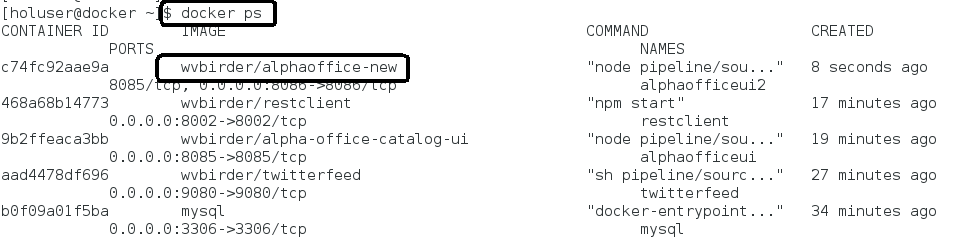
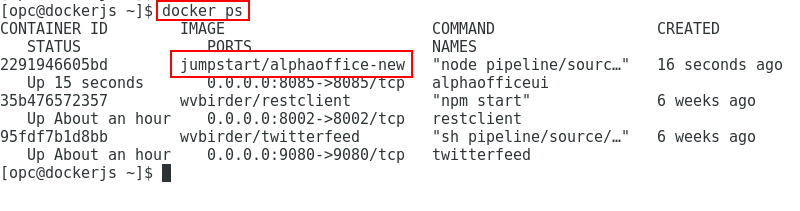
Updates

diff --git a/DockerJS.md b/DockerJS.md
@@ -1,5 +1,5 @@
 
-# Docker Workshop
+# Introduction to Docker on the Oracle Cloud
 
 ![](images/000JumpStart/TitleJS.png) 
 
@@ -222,7 +222,7 @@ Copy a background image file into the running AlphaOfficeUI container. This file
 docker cp /home/opc/AlphaOfficeSetup/dark_blue.jpg alphaofficeui:/pipeline/source/public/Images
 ```
 
-  Example: docker cp /home/opc/AlphaOfficeSetup/dark_blue.jpg alphaofficeui:/pipeline/source/public/Images
+  Example: `docker cp /home/opc/AlphaOfficeSetup/dark_blue.jpg alphaofficeui:/pipeline/source/public/Images`
 
 ### **STEP 2**: Install the VIM editor in the UI container
 
@@ -299,15 +299,15 @@ Commit and Test the changes
 
 ### **STEP 1**: Commit a NEW Docker image
 
-In this step you will save a copy of your modifed docker container and give it a new name. You're back out in the HOST now. Substitute your docker hub account name and give the new image a name where asked for in the following commands:
+In this step you will save a copy of your modifed docker container and give it a new name. You're back out in the HOST now. You can assign whatever image-name you want.
 
 - **Type** in following:
 
 ```
-docker commit alphaofficeui (your-dockerhub-account)/(image-name)
+docker commit alphaofficeui jumpstart/(image-name)
 ```
   
-- Example: `docker commit alphaofficeui wvbirder/alphaoffice-new`
+- Example: `docker commit alphaofficeui jumpstart/alphaoffice-new`
 
 - **Type** the following:
 
@@ -330,13 +330,19 @@ docker stop alphaofficeui
 docker rm alphaofficeui
 ```
 
-- Start a new container using your new Docker image. **Cut and Paste OR Type**: (Substituting your DockerHub account name and the image name you created in Step 1)
+- Start a new container using your new Docker image. **Cut and Paste OR Type**:
+
+- Let's take a look at what the docker **run** command options do:
+    - "-d" flag runs the container in the background
+    - "--restart unless-stopped" If the container goes down unexpectedly then when docker comes back up it will be restated... UNLESS it is stopped manually
+    - "--name" The name of the container will be "alphaofficeui"
+    - "-p" Port 8085 is mapped from the container to the same port on the HOST
 
 ```
-docker run -d --name=alphaofficeui -p=8085:8085 (your-dockerhub-account)/(image-name)
+docker run -d --restart unless-stopped --name=alphaofficeui -p=8085:8085 jumpstart/(image-name)
 ```
 
-- Example: `docker run -d --name=alphaofficeui -p=8085:8085  wvbirder/alphaoffice-new`
+- Example: `docker run -d --restart unless-stopped --name=alphaofficeui -p=8085:8085  jumpstart/alphaoffice-new`
 
 - Verify the new container is running by **typing**:
 
@@ -346,10 +352,16 @@ docker ps
 
 ![](images/000JumpStart/Picture200-32.png)
 
-- Open up a new browser tab and **enter**:
+- If your browser is still minimized then maximize it and refreash the AlphaOffice tab. If it's closed, then restart Firefox frm the Applications tab and go to:
 
 ```
-http://<Public-IP>:8085
+http://localhost:8085
 ```
 
 ![](images/000Jumpstart/Picture200-33.png)
+
+# Where do I go from here?
+
+If you would like to experience a more in-depth look at how this Docker infrastructure was created in the Oracle Cloud and how the AlphaOffice application can be deployed using an Oracle database OR MYSQL as the RESTclient datasource please go to <link-here>
+
+**This completes the Jump Start**

diff --git a/Linux200.md b/Linux200.md
@@ -520,7 +520,7 @@ Copy a background image file into the running AlphaOfficeUI container. This file
 docker cp /home/opc/AlphaOfficeSetup/dark_blue.jpg alphaofficeui:/pipeline/source/public/Images
 ```
 
-  Example: docker cp /home/opc/AlphaOfficeSetup/dark_blue.jpg alphaofficeui:/pipeline/source/public/Images
+  Example: `docker cp /home/opc/AlphaOfficeSetup/dark_blue.jpg alphaofficeui:/pipeline/source/public/Images`
 
 ### **STEP 2**: Install the VIM editor in the UI container
 
